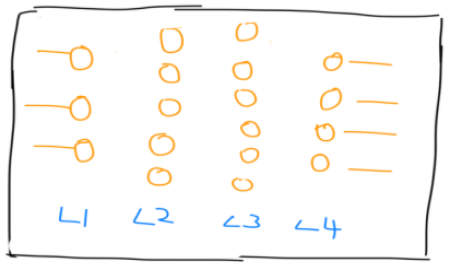
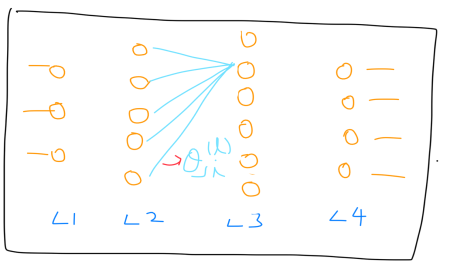
added further explanation:

diff --git a/_posts/2019-02-28-Week-5-Notes.md b/_posts/2019-02-28-Week-5-Notes.md
@@ -17,7 +17,7 @@ K: # of output units
 ![W5 Image-1](https://radirckze.github.io/ML-Stanford-SelfLearning/assets/W5_Image1.png)
 
 In the above network  
-L = 4
+L = 4  
 S<sub>2</sub> = 5  
 S<sub>4</sub> = K = 4  
 
@@ -35,15 +35,19 @@ J(&theta;) = For each training set (For each of the K elemens () losigtic regres
 
 That is, 
 
-J(&theta;) = -1&frasl;m &sum;<sub>i=1</sub><sup>m</sup> &sum;<sub>k=1</sub><sup>K</sup> [y<sup>(i)</sup> log(h<sub>&theta;</sub>(x<sup>(i)</sup>)) + (1 - y<sup>(i)</sup>)  log(1 - h<sub>&theta;</sub>(x<sup>(i)</sup>)) ] + &lambda;&frasl;2m  &sum;<sub>l=1</sub><sup>L-1</sup> &sum;<sub>i=1</sub><sup>S<sub>l</sub></sup> &sum;<sub>j=1</sub><sup>s<sub>l+1</sub></sup> (&Theta;<sub>j,i</sub><sup>l</sup>)<sup>2</sup>
+J(&theta;) = -1&frasl;m &sum;<sub>i=1</sub><sup>m</sup> &sum;<sub>k=1</sub><sup>K</sup> [y<sup>(i)</sup> log(h<sub>&theta;</sub>(x<sup>(i)</sup>)) + (1 - y<sup>(i)</sup>)  log(1 - h<sub>&theta;</sub>(x<sup>(i)</sup>)) ] + &lambda;&frasl;2m  &sum;<sub>l=1</sub><sup>L-1</sup> &sum;<sub>i=1</sub><sup>S<sub>l</sub></sup> &sum;<sub>j=1</sub><sup>s<sub>l+1</sub></sup> (&Theta;<sub>j,i</sub><sup>(l)</sup>)<sup>2</sup>
 
-*Note* the resularization term for neural network cost function is simply  
-
-&Theta;<sub>j,i</sub><sup>(l)</sup>. (*Need to get a better understanding of how we come to this*)
+*Note* the regularization term for neural network cost function is simply a summation of all the &theta;'s used to generate the terms of the subsequent layers from layer 1 to L-1. (*Note* subscript i in the regularization term is not related to training sets.) 
+ 
+For example, looking at the above diagram (which does not contain bias nodes),  
+a<sub>2</sub><sup>(3)</sup> = a<sub>1</sub><sup>(2)</sup> * &theta;<sub>2,1</sub><sup>(2)</sup> + ... + a<sub>5</sub><sup>(2)</sup> * &theta;<sub>2,5</sub><sup>(2)</sup>
 
 Also, note that:
 
 ((h&Theta;(x))<sub>i</sub> &equiv; i<sup>th</sup> output of where 1 &le; i &le; K
+
+(*editorial note%: review to make sure I got all the subscripts and superscripts righ.)  
+
 
 
 ---
